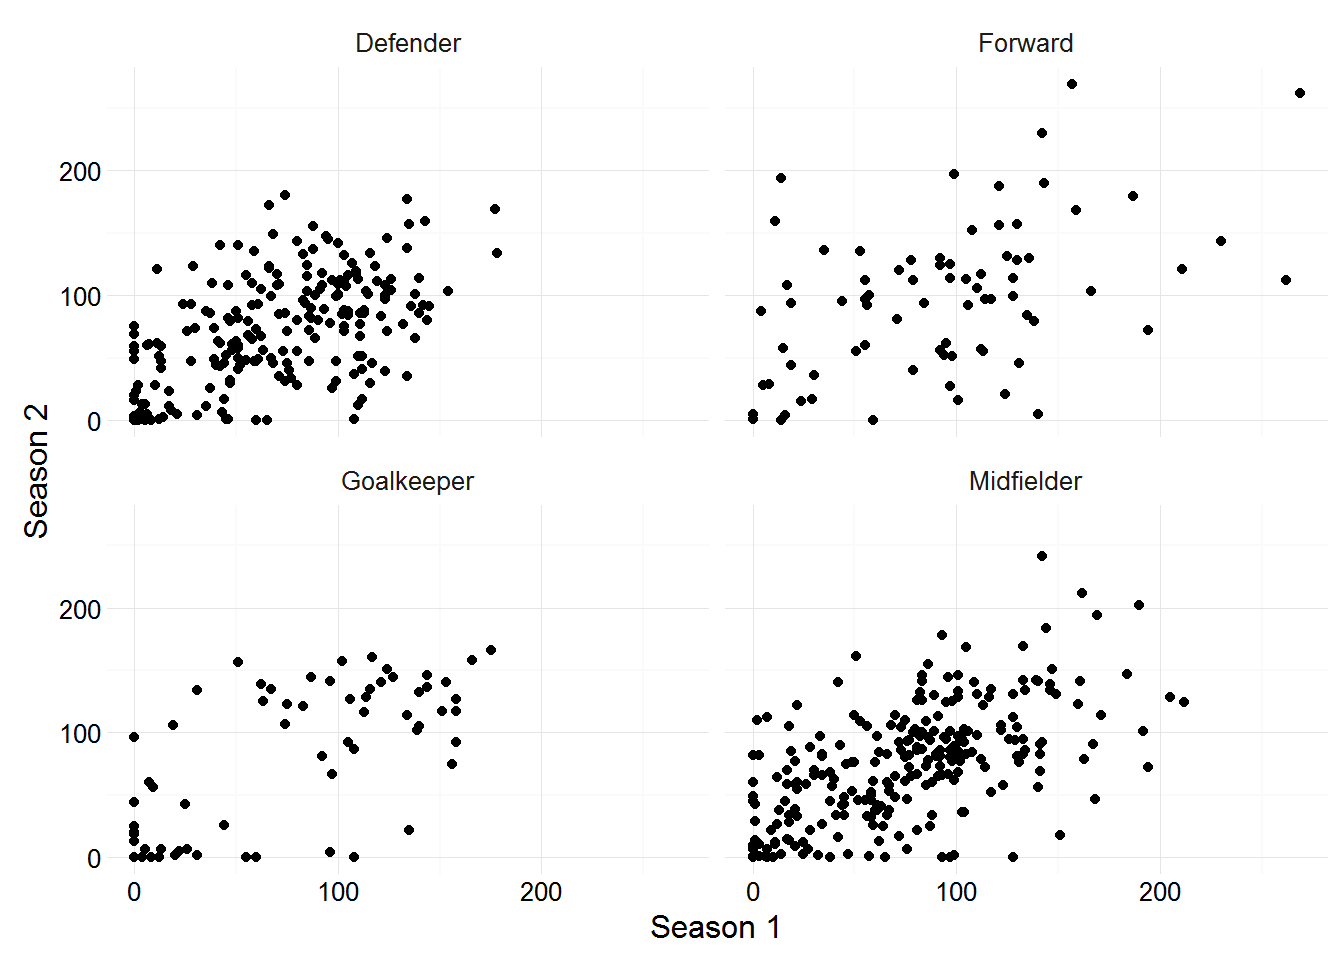
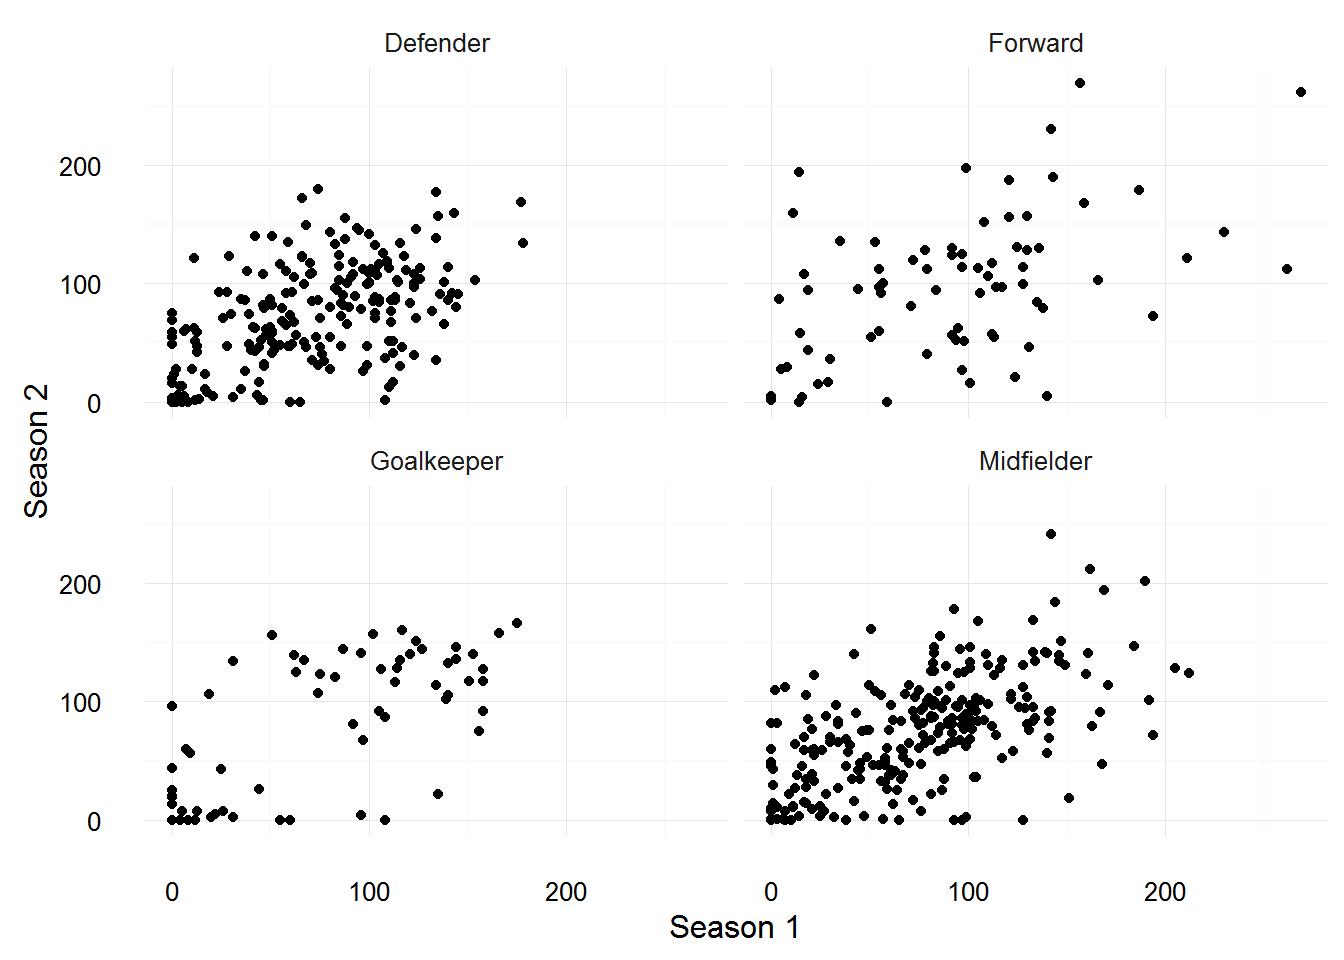
new pages

diff --git a/players.html b/players.html
@@ -168,16 +168,16 @@ img {
 <p>The <strong>players</strong> dataset contains summary data for individual players in the <a href="http://fantasy.premierleague.com">fantasy.premierleague.com</a> game, the dataset was updated the day before the 2014/15 seasons started so there will be some changes due to players joining and leaving the game.</p>
 <p>Once the package has been loaded, to access the dataset:</p>
 <pre class="sourceCode r"><code class="sourceCode r"><span class="kw">data</span>(players)</code></pre>
-<p>The dataframe has dimensions 532 rows and 7 columns.</p>
+<p>The dataframe has dimensions 689 rows and 7 columns.</p>
 <pre class="sourceCode r"><code class="sourceCode r"><span class="kw">str</span>(players)</code></pre>
-<pre><code>## &#39;data.frame&#39;:    532 obs. of  7 variables:
+<pre><code>## &#39;data.frame&#39;:    689 obs. of  7 variables:
 ##  $ id   : num  1 2 3 4 5 6 7 8 9 10 ...
 ##  $ name : chr  &quot;Szczesny&quot; &quot;Ospina&quot; &quot;Cech&quot; &quot;Koscielny&quot; ...
 ##  $ pos  : chr  &quot;Goalkeeper&quot; &quot;Goalkeeper&quot; &quot;Goalkeeper&quot; &quot;Defender&quot; ...
 ##  $ team : chr  &quot;Arsenal&quot; &quot;Arsenal&quot; &quot;Arsenal&quot; &quot;Arsenal&quot; ...
-##  $ pts  : num  47 76 38 120 121 16 77 76 23 94 ...
-##  $ value: num  5 5 5.5 6 5.5 5 5.5 5.5 5.5 5 ...
-##  $ pct  : num  0.1 0.7 30.2 17.8 15.2 0.2 8.2 1 0.8 1 ...</code></pre>
+##  $ pts  : num  0 0 125 103 55 55 103 24 3 28 ...
+##  $ value: num  5 4.7 5.9 6.3 5.2 4.3 6.1 5.2 5.1 4.9 ...
+##  $ pct  : num  0 0.3 36.4 15.5 5.3 0.7 20.8 0.5 0.3 0.3 ...</code></pre>
 <p>There are 7 variables, the players position (‘pos’), their team, points scored last season (‘pts’), id number, name, value (when the package was created), and the percentage of teams the player is selected in (‘pct’)</p>
 <p>A simple plot of this data to show the number of players in each position at each of the 20 clubs. We can also use the <code>team_pal()</code> function included in the package.</p>
 <pre class="sourceCode r"><code class="sourceCode r">players$pos &lt;-<span class="st"> </span><span class="kw">factor</span>(players$pos, <span class="dt">levels =</span> <span class="kw">c</span>(<span class="st">&quot;Goalkeeper&quot;</span>, <span class="st">&quot;Defender&quot;</span>,

diff --git a/using_functions.html b/using_functions.html
@@ -165,7 +165,7 @@ img {
 </div>
 
 
-<p>The stable datasets in the package will become out of date as and when users interact with <a href="http://fantasy.premierleague.com">fantasy.premierleague.com</a>, they became out of date almost immediately after the package was created (<em>sigh</em>). The function <code>collect_ff</code> allows for up-to-date data to be collected by accessing the ‘official’ API, the function should be used sparingly. (This post was written 2016-01-28 22:10:28)</p>
+<p>The stable datasets in the package will become out of date as and when users interact with <a href="http://fantasy.premierleague.com">fantasy.premierleague.com</a>, they became out of date almost immediately after the package was created (<em>sigh</em>). The function <code>collect_ff</code> allows for up-to-date data to be collected by accessing the ‘official’ API, the function should be used sparingly. (This post was written 2016-04-20 22:01:14)</p>
 <div id="fresh-data" class="section level3">
 <h3>Fresh Data</h3>
 <p>The <code>collect_ff</code> function needn’t take any arguments, by default it will attempt to collect data for 600 players, this is time-consuming so I won’t do that in this post, instead I will collect just 25 players. The <code>.progress</code> argument is from the <a href="https://github.com/hadley/plyr">plyr</a> package and will tell the user roughly how much longer it will take to complete the collecting (“text” or “time” are most useful imo)</p>
